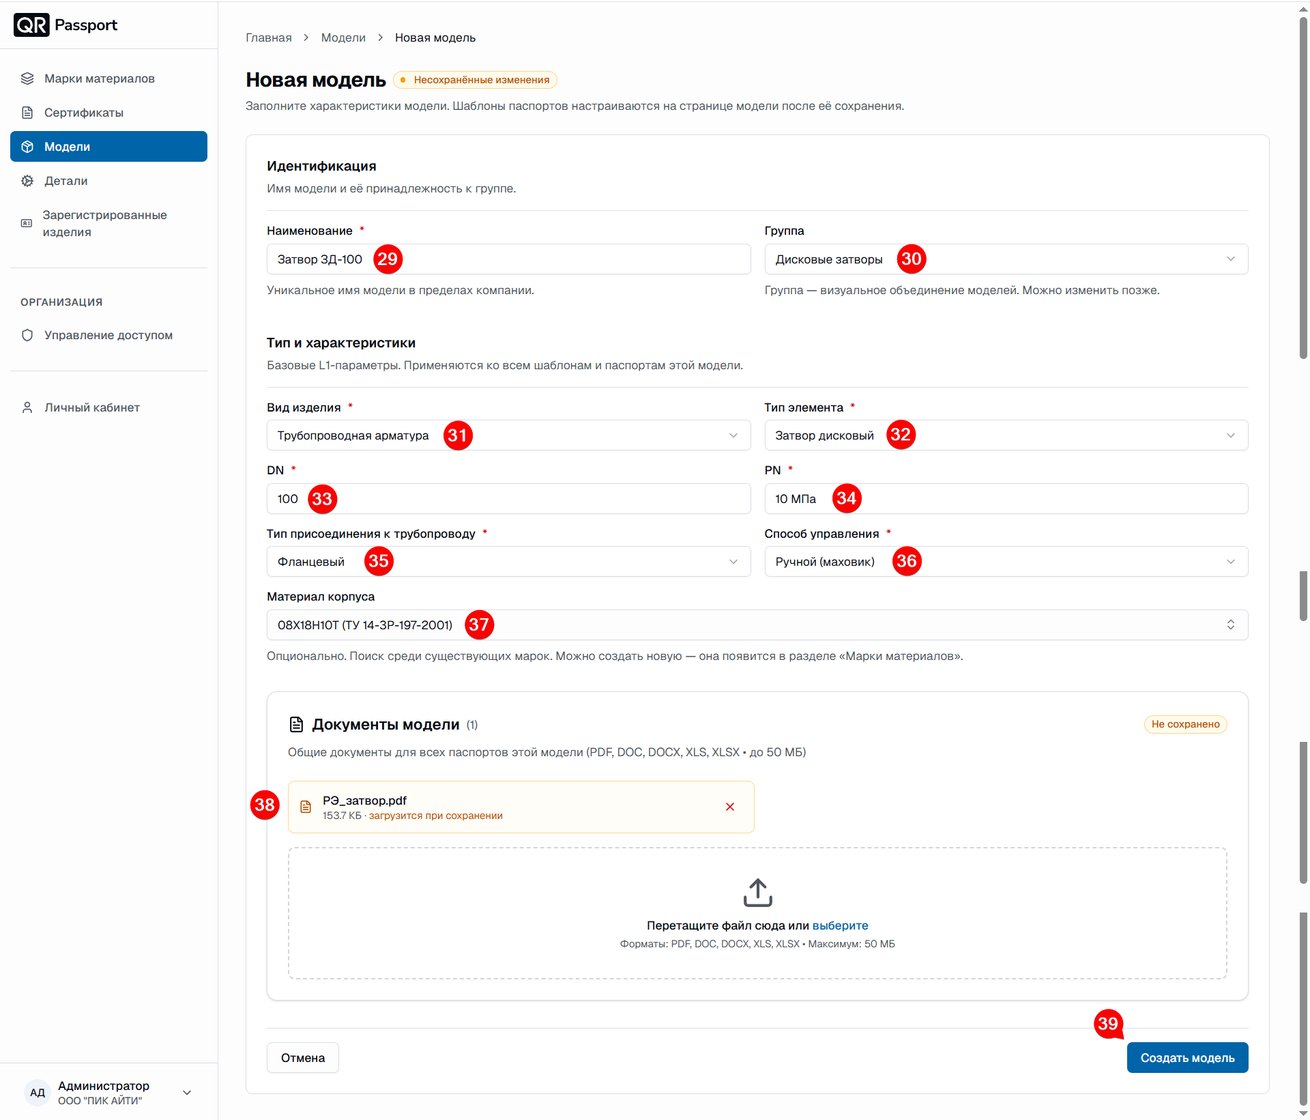
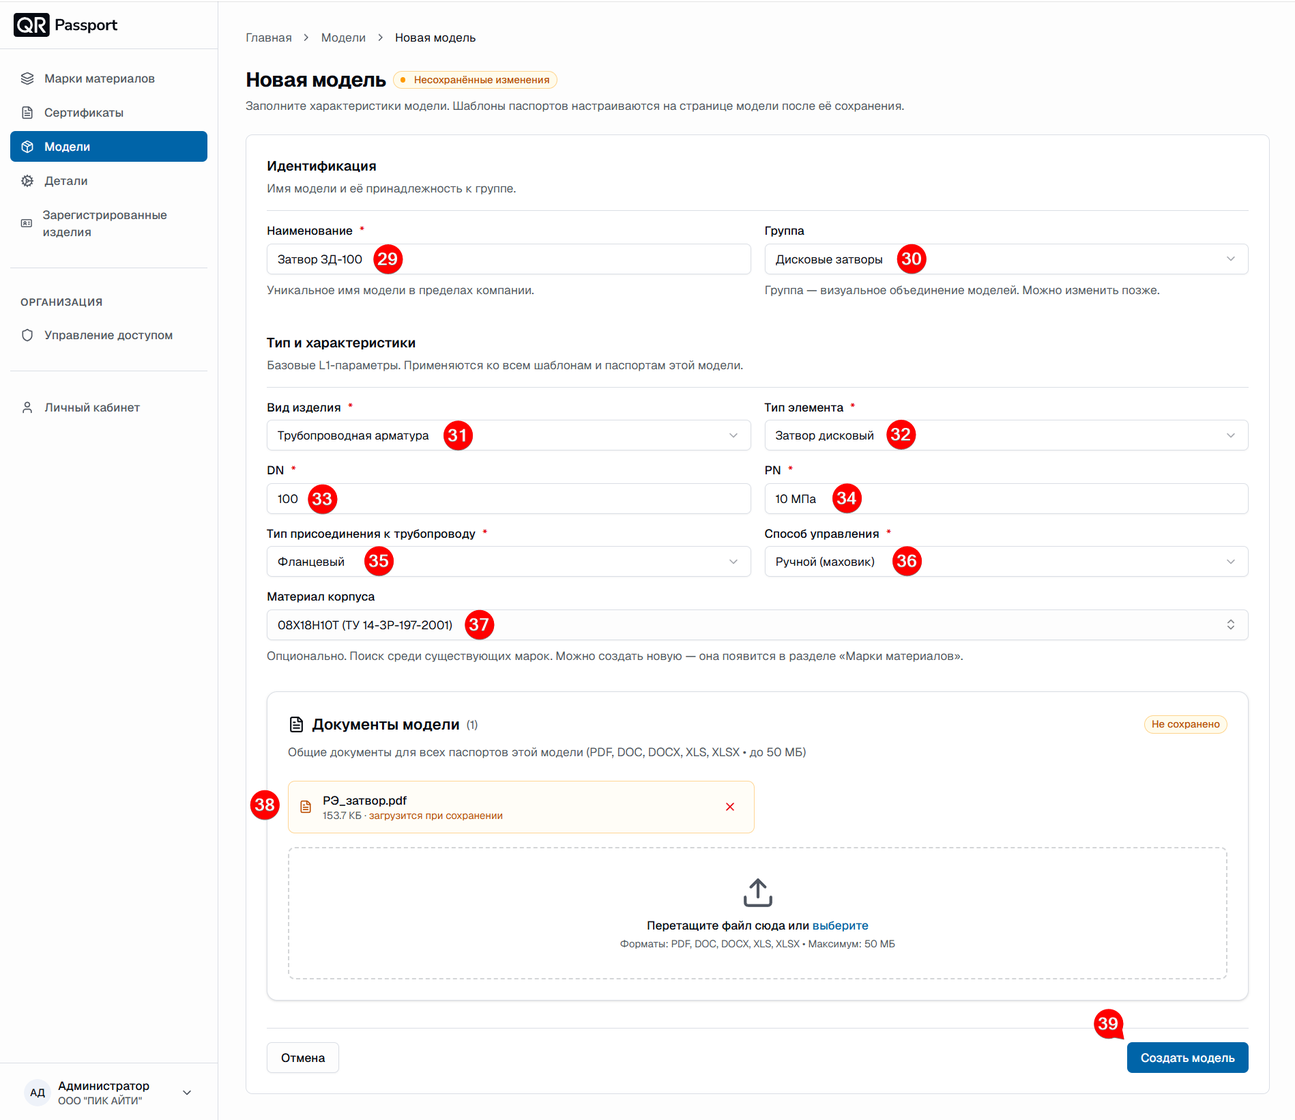
Модели (начало)

diff --git a/docs/_assets/style/custom.css b/docs/_assets/style/custom.css
@@ -113,3 +113,9 @@ img[src*="logo.svg"] {
 }
 
 .g-root_theme_dark .contact-card
+
+/* Заголовки карточек контактов в тёмной теме — принудительно светлые */
+.g-root_theme_dark .contact-card strong,
+.g-root_theme_dark .contact-card div {
+  color: #f4f5fd !important;
+}

diff --git a/docs/ru/equipment/models/templates.md b/docs/ru/equipment/models/templates.md
@@ -1,1 +1,56 @@
-# 3
+# Описание шаблонов
+
+Шаблон паспорта – готовая структура документа с разделами, подразделами и характеристиками в соответствии с отраслевыми и нормативными документами. К одной модели можно привязать несколько шаблонов – например, для разных отраслей поставки.
+
+## Добавление шаблона
+
+1. Откройте модель и перейдите во вкладку **Шаблоны**.
+2. Нажмите кнопку **Добавить другой шаблон**.
+3. В появившемся окне выберите отраслевой пресет – будет создан новый шаблон-модель, независимый от уже существующих. Для быстрого поиска используйте поле «Поиск пресета».
+4. Выбранный шаблон появится на странице модели – можно переходить к заполнению.
+
+![Выбор отраслевого пресета](../../_images/models_template_presets.png)
+
+Доступные отраслевые пресеты:
+
+- Паспорт трубопроводной арматуры. Атомные станции (РФ);
+- Паспорт трубопроводной арматуры. Нефтяная и нефтехимическая промышленность (РФ);
+- Паспорт трубопроводной арматуры. Общепромышленный (РФ);
+- Паспорт трубопроводной арматуры. Общепромышленный, БС (РФ);
+- Паспорт трубопроводной арматуры. СТО 2.4.1-212-2008 Газпром (РФ).
+
+## Структура шаблона
+
+Шаблон состоит из разделов. Обязательные поля отмечены звёздочкой – без них шаблон не сохранится. Разделы, не нужные для конкретного изделия, отключаются переключателем – например, раздел **Привод** отключают, если способ управления ручной.
+
+Основные разделы шаблона:
+
+- **Титульный лист** – логотип изготовителя, наименование изделия, обозначение паспорта;
+- **Основные сведения** – изготовитель и общие данные;
+- **Привод** – характеристики привода (отключается для ручного управления);
+- **Материалы основных деталей** – химический состав и механические свойства по деталям;
+- **Вид контроля** и отметка ОТК;
+- **Данные приёмо-сдаточных испытаний**;
+- **Комплектность** – состав поставки;
+- **Разрешенные отклонения**;
+- **Дополнительные сведения**.
+
+## Заполнение шаблона
+
+1. Заполните обязательные поля, отмеченные звёздочкой. После заполнения блока нажимайте **Готово**.
+2. В табличных разделах (химический состав, механические свойства, испытания, комплектность) добавляйте строки кнопкой **+ строку** слева.
+3. Для химического состава и механических свойств выберите в строке созданную **деталь** и **сертификат** – значения подтянутся из них автоматически, вручную переписывать ничего не нужно.
+4. Отключите переключателями разделы, которые не применяются к изделию.
+5. Убедитесь, что все обязательные поля заполнены, и нажмите **Сохранить**.
+6. Подтвердите изменения кнопкой **Подтвердить**.
+
+Если обязательное поле не заполнено, система подсветит его и не сохранит шаблон – вернитесь к подсвеченным полям и заполните их.
+
+## Удаление шаблона
+
+1. Перейдите во вкладку **Шаблоны**.
+2. Нажмите (**⋯**) справа от шаблона.
+3. Выберите **Удалить шаблон**.
+4. Нажмите **Удалить шаблон**.
+
+Перед удалением шаблона удалите зарегистрированные по нему изделия – таков общий порядок: изделия – шаблон – модель.

diff --git a/docs/ru/equipment/models/about.md b/docs/ru/equipment/models/about.md
@@ -1,4 +1,78 @@
-# Модели оборудования
+# Модели
+
+Раздел «Модели» – каталог номенклатурных позиций. Модель объединяет однотипные изделия и хранит их общие характеристики, шаблоны паспортов и документы.
+
+Основной принцип работы – последовательная цепочка:
+
+1. Создайте **модель**.
+2. Выберите и заполните **шаблон** паспорта (см. [Описание шаблонов](templates.md)).
+3. **Зарегистрируйте изделие** на основе модели.
+
+Удаление выполняется в обратном порядке: сначала зарегистрированные изделия, затем шаблон, затем модель.
+
+## Внешний вид раздела
+
+![Раздел «Модели»](../../_images/models_list.png)
+
+В верхней части раздела расположены кнопки:
+
+- **Создать группу** – визуальное объединение моделей, например по типу оборудования;
+- **Добавить модель** – переход к форме [создания модели](create_model.md).
+
+Ниже – панель фильтров и список моделей.
+
+### Фильтры
+
+- **Поиск** – поиск по наименованию модели;
+- **Группа** – показать модели только выбранной группы;
+- **Вид** – фильтр по виду изделия;
+- **Тип** – фильтр по типу элемента;
+- **Сбросить** – сброс поиска и всех фильтров.
+
+### Список моделей
+
+В таблице отображаются:
+
+1. **Наименование** – имя модели и её изображение.
+2. **Вид** – вид изделия, например «Трубопроводная арматура».
+3. **Тип** – тип элемента, например «Задвижка» или «Затвор дисковый».
+4. **Паспорта** – количество зарегистрированных изделий по модели.
+5. **Обновлено** – дата последнего изменения модели.
+6. Кнопка (**⋯**) – меню действий: редактирование, удаление модели, перенос в группу.
+
+Модели, не привязанные к группе, отображаются под заголовком «– БЕЗ ГРУППЫ –».
+
+## Страница модели
+
+Откройте модель из списка – откроется страница модели с двумя вкладками:
+
+- **Обзор** – основные характеристики: вид и тип изделия, параметры DN и PN, тип присоединения и способ управления, материал корпуса, прикреплённые документы;
+- **Шаблоны** – шаблоны паспортов, привязанные к модели (см. [Описание шаблонов](templates.md)).
+
+В верхней части страницы расположены кнопки:
+
+- **Зарегистрировать изделие** – запуск регистрации изделий по модели;
+- **Редактировать** – изменение характеристик модели;
+- (**⋯**) – меню действий, включая удаление модели.
+
+## Группы моделей
+
+Группа – визуальное объединение моделей; на характеристики изделий она не влияет, и её можно изменить позже.
+
+Создание группы:
+
+1. Нажмите кнопку **Создать группу**.
+2. Введите название группы – например, `Дисковые затворы`.
+3. Нажмите кнопку **Создать**.
+
+Назначение модели в группу выполняется в поле **Группа** при создании или редактировании модели.
+
+Удаление группы:
+
+1. В разделе **Модели** нажмите (**⋯**) напротив группы.
+2. Выберите **Удалить**.
+3. Нажмите **Удалить группу**.
+
 <!--Подраздел **Модели оборудования** предназначен для создания моделей оборудования на основе общих шаблонов паспортов.
 
 ## Описание главного окна

diff --git a/docs/ru/equipment/models/create_model.md b/docs/ru/equipment/models/create_model.md
@@ -1,1 +1,35 @@
-# 4
+# Создание модели
+
+Модель создаётся первой – до выбора шаблона и регистрации изделий. Заполните характеристики модели; шаблоны паспортов настраиваются на странице модели после её сохранения.
+
+## Форма создания модели
+
+1. В разделе **Модели** нажмите кнопку **Добавить модель**.
+2. Заполните блок **Идентификация**:
+   - **Наименование** * – уникальное имя модели в пределах компании, например `ЗД-100-16`;
+   - **Группа** – визуальное объединение моделей; по умолчанию «Без группы», можно изменить позже.
+3. Заполните блок **Тип и характеристики** – базовые L1-параметры, которые применяются ко всем шаблонам и паспортам этой модели:
+   - **Вид изделия** * – например, `Трубопроводная арматура`;
+   - **Тип элемента** * – например, `Задвижка` или `Затвор дисковый`;
+   - **DN** * – номинальный диаметр, например `100`;
+   - **PN** * – номинальное давление, например `1,6 МПа` или `16 кгс/см²` или `1,6 МПа (16 кгс/см²)`;
+   - **Тип присоединения к трубопроводу** * – например, `Фланцевый`;
+   - **Способ управления** * – например, `Ручной (маховик)`;
+   - **Материал корпуса** – опционально: выберите существующую марку из списка или создайте новую – она появится в разделе «Марки материалов».
+4. При необходимости прикрепите файлы в блоке **Документы модели** – общие документы для всех паспортов этой модели. Форматы: PDF, DOC, DOCX, XLS, XLSX, размер до 50 МБ. Файлы загрузятся после сохранения модели.
+5. Нажмите кнопку **Создать модель**. Кнопка **Отмена** возвращает к списку без сохранения.
+
+![Пустая форма создания модели](../../_images/models_create_empty.png)
+
+Во время заполнения рядом с заголовком отображается метка «Несохранённые изменения». Если обязательное поле не заполнено, при попытке сохранения оно подсвечивается красным – заполните подсвеченные поля и повторите сохранение.
+
+![Заполненная форма создания модели](../../_images/models_create_filled.png)
+
+## После создания
+
+Открывается страница модели. Дальнейшие шаги:
+
+1. Добавьте и заполните шаблон паспорта – см. [Описание шаблонов](templates.md).
+2. Зарегистрируйте изделия – см. раздел [Зарегистрированные изделия](registered_products/about.md).
+
+Если модель создана ошибочно, удалить её можно только после удаления шаблонов и изделий – в обратном порядке относительно создания.

diff --git a/docs/ru/quick_start.md b/docs/ru/quick_start.md
@@ -16,7 +16,7 @@
 
 На данный момент в QR-Passport заведены пять отраслевых шаблонов для трубопроводной арматуры в соответствии с ГОСТ 34612-2019, ГОСТ Р 2.610-2016, а также с учетом отраслевых требований:
    * _общепромышленный_;
-   * _общепромышленный (БС)_ — вариант без обязательной сертификации;
+   * _общепромышленный (БС)_ – вариант без обязательной сертификации;
    * _нефтяная отрасль_ – выполнен с учетом требований «Роснефти», «Лукойла», «ИНК»;
    * _газовая отрасль_ – выполнен с учетом требований «Газпрома»;
    * _атомная отрасль_ – выполнен с учетом требований «Росатома».
@@ -77,6 +77,7 @@
 {% cut "см. шаги 1-7" %}
 
 ![1,2](./_images/example_1-2.png)
+
 ![3-7](./_images/example_3-7.png)
 
 {% endcut %}
@@ -97,6 +98,7 @@
 {% cut "см. шаги 8-16" %}
 
 ![8,9](./_images/example_8,9.png)
+
 ![10-16](./_images/example_10-16.png)
 
 {% endcut %}
@@ -115,6 +117,7 @@
 {% cut "см. шаги 17-23" %}
 
 ![17,18](./_images/example_17-18.png)
+
 ![19-23](./_images/example_19-23.png)
 
 {% endcut %}
@@ -151,6 +154,7 @@
 {% cut "см. шаги 28-39" %}
 
 ![28](./_images/example_28.png)
+
 ![29-39](./_images/example_29-39.png)
 
 {% endcut %}
@@ -192,11 +196,17 @@
 {% cut "см. шаги 41-46" %}
 
 ![41,42](./_images/example_41-42.png)
+
 ![44](./_images/example_44_1.png)
+
 ![44](./_images/example_44_2.png)
+
 ![44](./_images/example_44_3.png)
+
 ![44](./_images/example_44_4.png)
+
 ![44](./_images/example_44_5.png)
+
 ![45,46](./_images/example_45-46.png)
 
 {% endcut %}
@@ -223,9 +233,13 @@
 {% cut "см. шаги 47-54" %}
 
 ![47](./_images/example_47.png)
+
 ![48](./_images/example_48.png)
+
 ![49](./_images/example_49.png)
+
 ![50-52](./_images/example_50-52.png)
+
 ![53,54](./_images/example_53-54.png)
 
 
